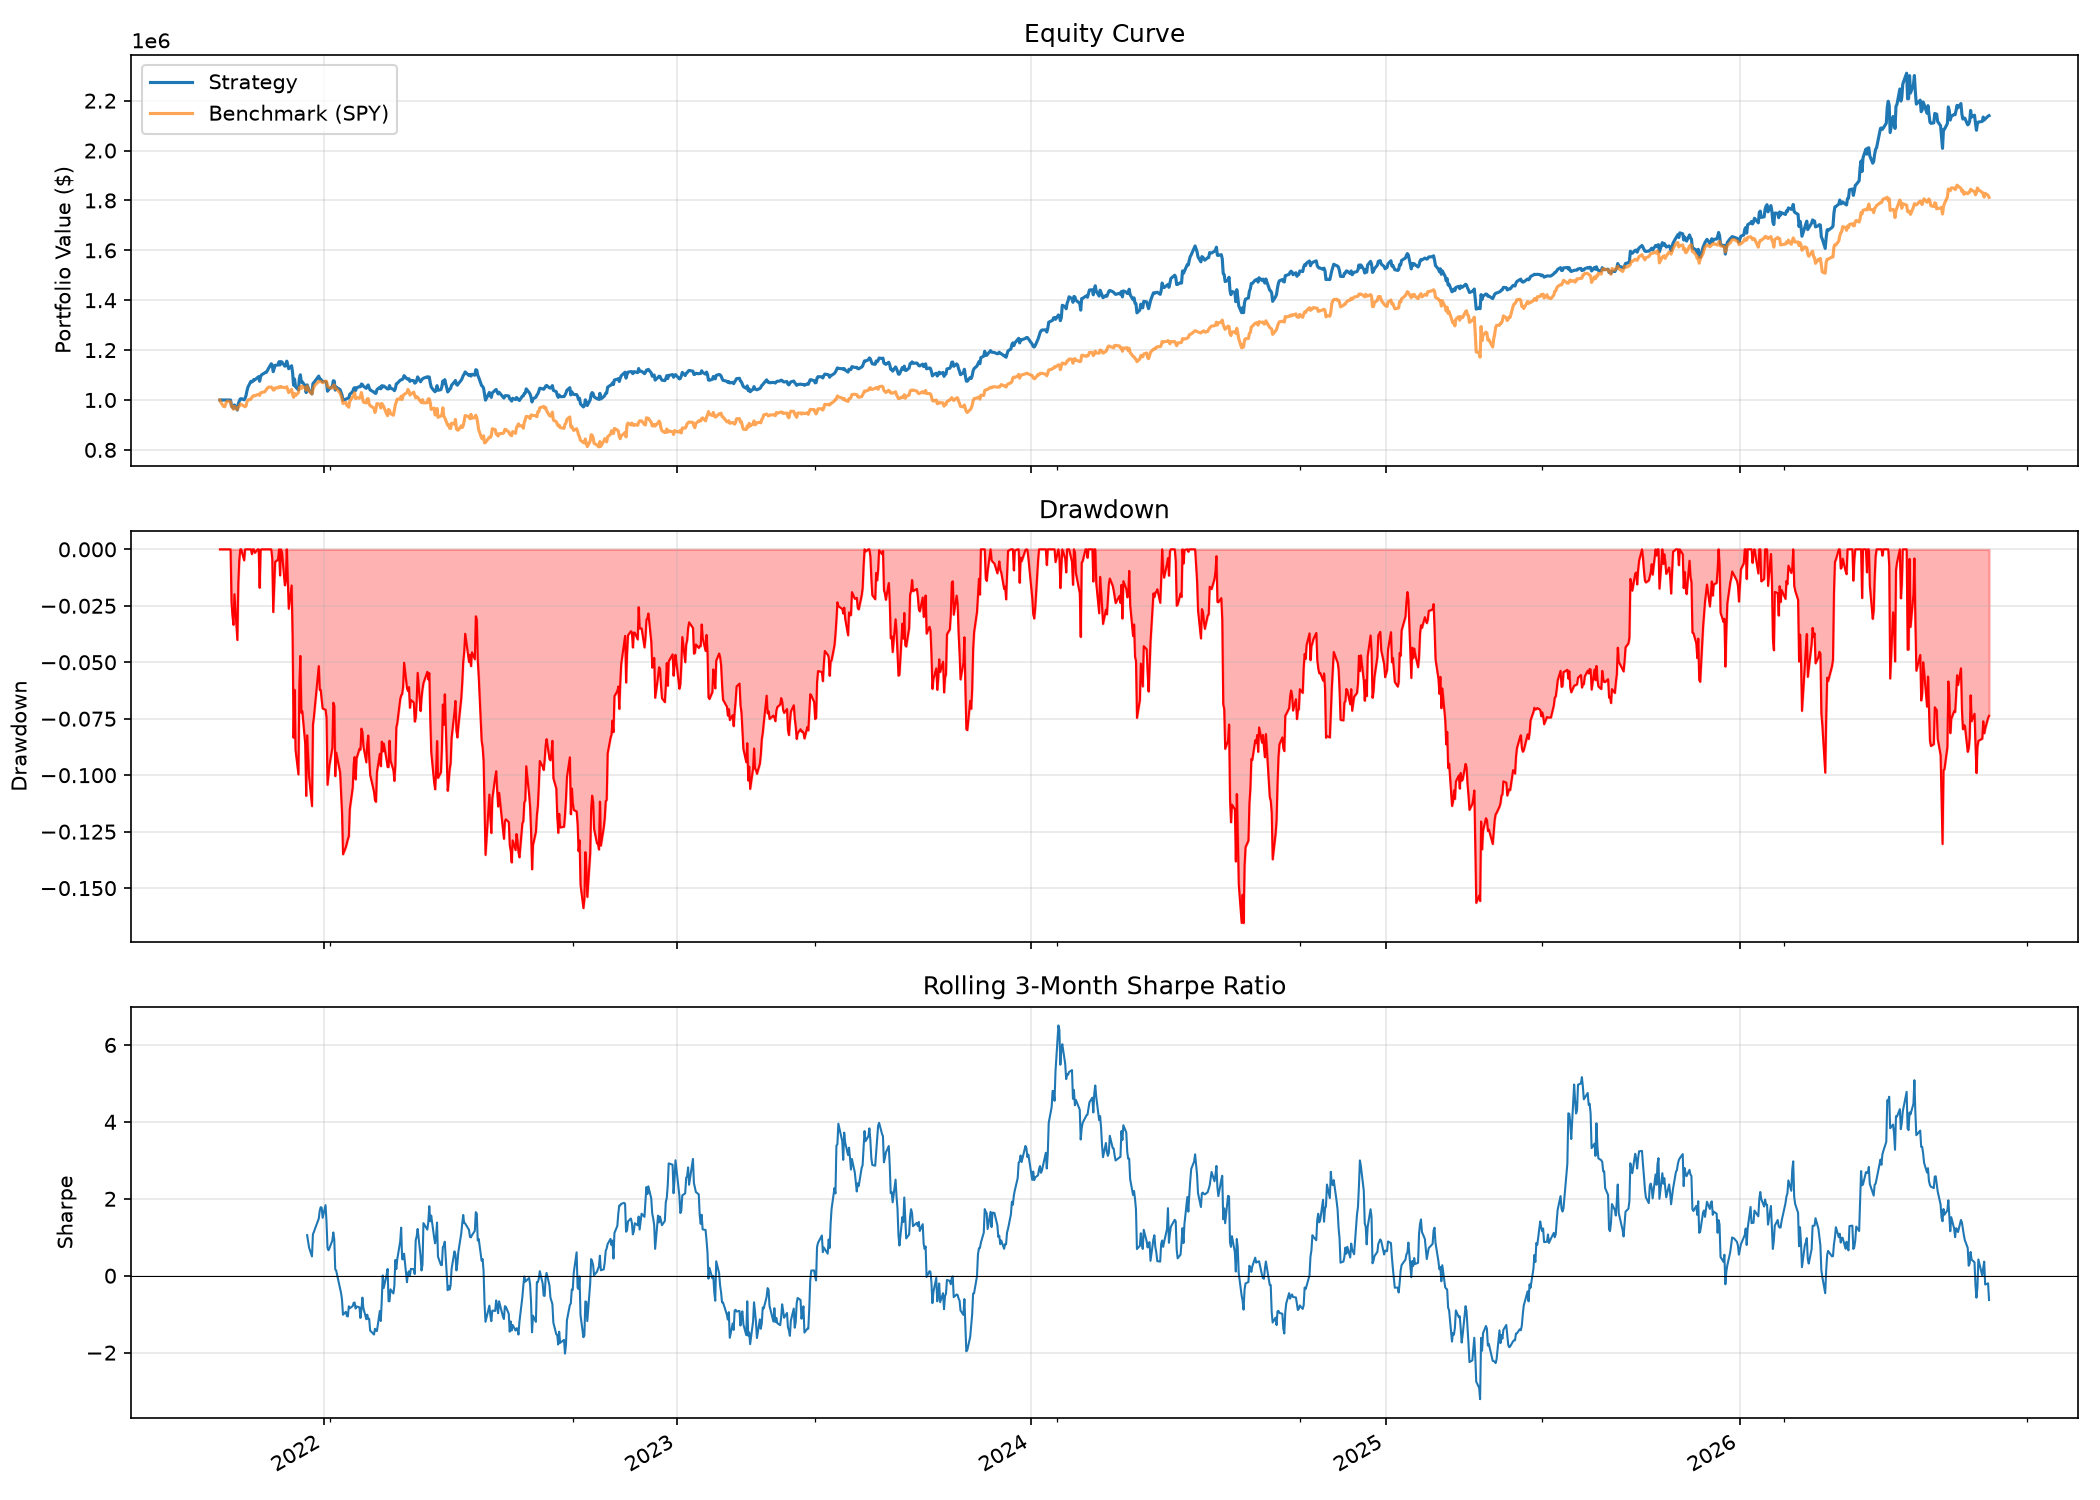
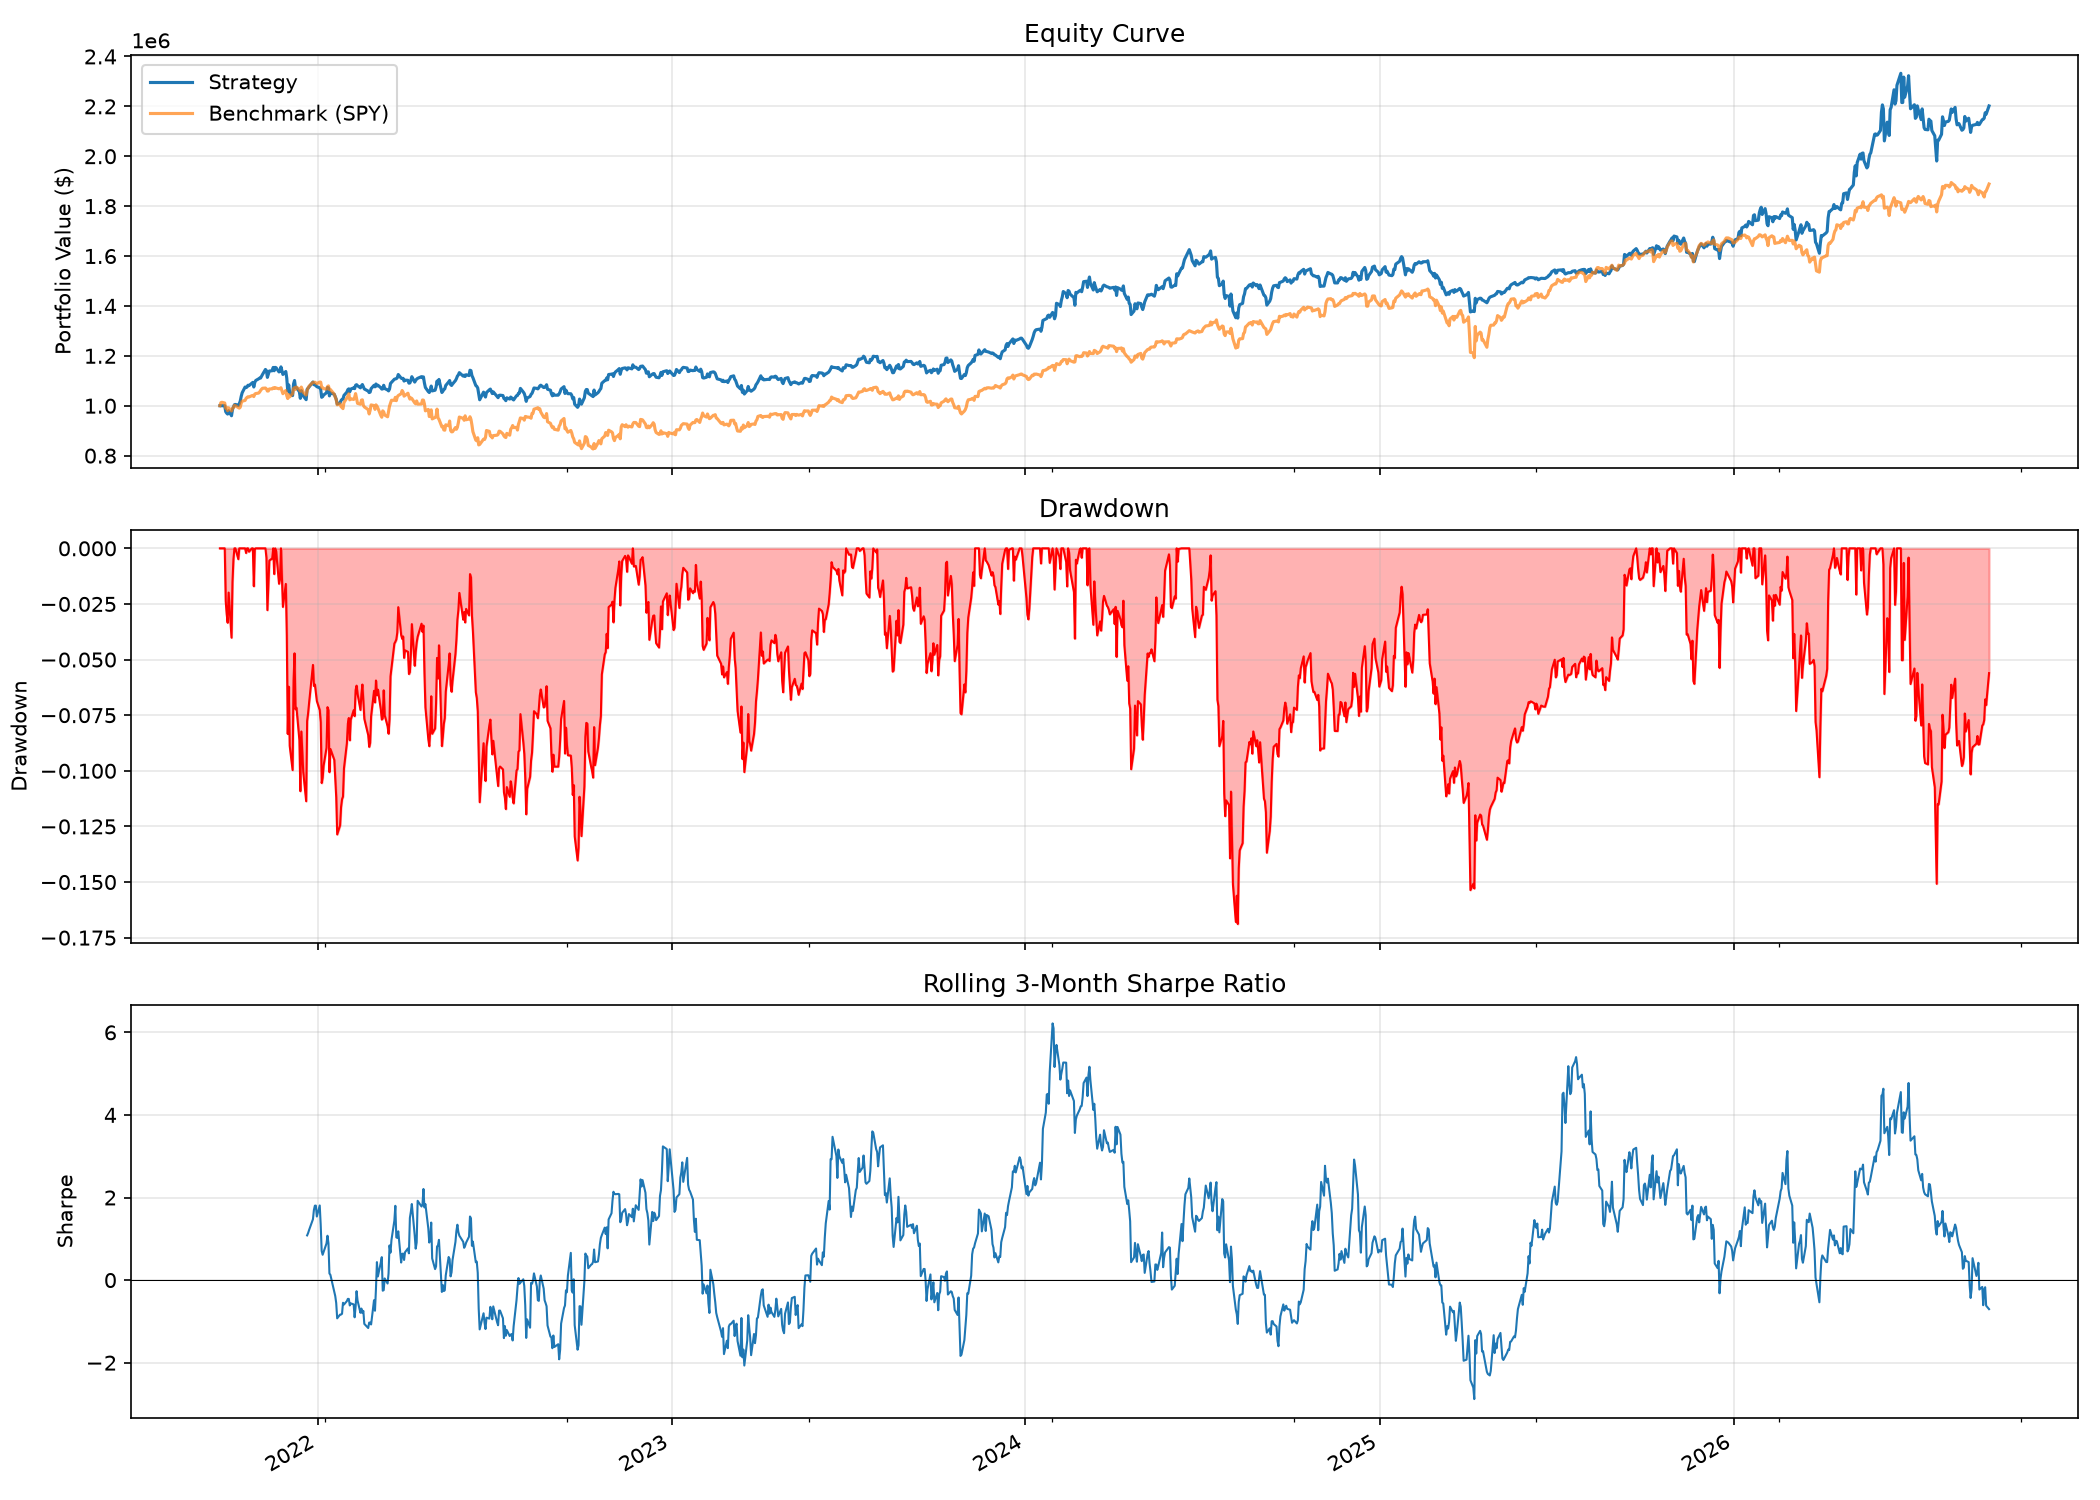
docs(readme): backtest tables and chart from the 2026-09-22 refresh run
Windows end 2026-09-22 on commit 4b81fe3 (run 35768997115). The same
windows on the previous turnover cap (run 35769424492) and on a third
variant tried the same day move the multi-factor numbers by a few points
in both directions, so the README says so and rests the change on the
exposure leak it closes rather than on these numbers. LGBM notes its
four frozen dry-run days; the trend blurb now describes the trailing
stop as measured from the peak since entry.

diff --git a/README.md b/README.md
@@ -37,42 +37,46 @@ Weekly decisions use paper-window alpha + attribution, execution health, model d
 
 ### Multi-Factor Strategy / 多因子策略 — **Candidate / 候选线**
 
-Recomputed 2026-09-16 by the `README Backtest Refresh` workflow (Actions run [35091142885](https://github.com/yingwang/trade/actions/runs/35091142885)) on commit `181ac3c`: one continuous simulation sliced into windows, next-session-open execution, the anchored rebalance calendar, the static sector table on both paths, targets computed from the actual drifted book, the volatility-scaled impact model, the turnover budget split between exits and entries, and Sharpe/Sortino against a 4% risk-free rate.
+Recomputed 2026-09-22 by the `README Backtest Refresh` workflow (Actions run [35768997115](https://github.com/yingwang/trade/actions/runs/35768997115)) on commit `4b81fe3`: one continuous simulation sliced into windows, next-session-open execution, the anchored rebalance calendar, the static sector table on both paths, targets computed from the actual drifted book, the volatility-scaled impact model, a turnover cap that may slow a rebalance but not sell the book below min(current, target) gross, and Sharpe/Sortino against a 4% risk-free rate.
 
-由 `README Backtest Refresh` workflow 于 2026-09-16 重算（Actions run 35091142885，commit `181ac3c`）：一次连续模拟切成三个窗口，次日开盘成交，锚定的再平衡日历，回测与 paper/模拟盘共用的静态行业表，目标组合按真实漂移持仓计算，波动率尺度的冲击成本，换手预算在退出腿与买入腿之间分配，Sharpe/Sortino 按 4% 无风险利率计算。
+由 `README Backtest Refresh` workflow 于 2026-09-22 重算（Actions run 35768997115，commit `4b81fe3`）：一次连续模拟切成三个窗口，次日开盘成交，锚定的再平衡日历，回测与 paper/模拟盘共用的静态行业表，目标组合按真实漂移持仓计算，波动率尺度的冲击成本，换手上限只放慢调仓、不把毛头寸卖到「现有」与「目标」两者较低者之下，Sharpe/Sortino 按 4% 无风险利率计算。
 
-#### 5-Year Backtest (2021-09-16 → 2026-09-16)
-
-| Metric / 指标 | Strategy / 策略 | SPY | Difference / 差异 |
-|---------------|:-----------:|:---:|:---------:|
-| **Total Return / 总收益** | **+113.7%** | +81.2% | **+32.5pp** |
-| **CAGR / 年化收益** | **+16.5%** | — | — |
-| **Sharpe Ratio** | **0.72** | — | — |
-| **Sortino Ratio** | **1.03** | — | — |
-| **Max Drawdown / 最大回撤** | -17.3% | — | — |
-| **Information Ratio** | **0.24** | — | — |
-
-#### 3-Year Backtest (2023-09-16 → 2026-09-16)
+#### 5-Year Backtest (2021-09-22 → 2026-09-22)
 
 | Metric / 指标 | Strategy / 策略 | SPY | Difference / 差异 |
 |---------------|:-----------:|:---:|:---------:|
-| **Total Return / 总收益** | **+88.1%** | +76.6% | **+11.5pp** |
-| **CAGR / 年化收益** | **+23.7%** | — | — |
-| **Sharpe Ratio** | **1.03** | — | — |
-| **Sortino Ratio** | **1.51** | — | — |
-| **Max Drawdown / 最大回撤** | -17.3% | — | — |
-| **Information Ratio** | **0.20** | — | — |
+| **Total Return / 总收益** | **+127.1%** | +89.0% | **+38.0pp** |
+| **CAGR / 年化收益** | **+17.9%** | — | — |
+| **Sharpe Ratio** | **0.78** | — | — |
+| **Sortino Ratio** | **1.11** | — | — |
+| **Max Drawdown / 最大回撤** | -16.9% | — | — |
+| **Information Ratio** | **0.27** | — | — |
 
-#### 1-Year Backtest (2025-09-16 → 2026-09-16)
+#### 3-Year Backtest (2023-09-22 → 2026-09-22)
 
 | Metric / 指标 | Strategy / 策略 | SPY | Difference / 差异 |
 |---------------|:-----------:|:---:|:---------:|
-| **Total Return / 总收益** | **+33.8%** | +16.0% | **+17.8pp** |
-| **CAGR / 年化收益** | **+34.2%** | — | — |
+| **Total Return / 总收益** | **+95.0%** | +86.5% | **+8.5pp** |
+| **CAGR / 年化收益** | **+25.1%** | — | — |
+| **Sharpe Ratio** | **1.07** | — | — |
+| **Sortino Ratio** | **1.56** | — | — |
+| **Max Drawdown / 最大回撤** | -16.9% | — | — |
+| **Information Ratio** | **0.15** | — | — |
+
+#### 1-Year Backtest (2025-09-22 → 2026-09-22)
+
+| Metric / 指标 | Strategy / 策略 | SPY | Difference / 差异 |
+|---------------|:-----------:|:---:|:---------:|
+| **Total Return / 总收益** | **+35.5%** | +17.3% | **+18.2pp** |
+| **CAGR / 年化收益** | **+35.7%** | — | — |
 | **Sharpe Ratio** | **1.26** | — | — |
-| **Sortino Ratio** | **1.89** | — | — |
-| **Max Drawdown / 最大回撤** | -13.0% | — | — |
-| **Information Ratio** | **1.01** | — | — |
+| **Sortino Ratio** | **1.88** | — | — |
+| **Max Drawdown / 最大回撤** | -15.1% | — | — |
+| **Information Ratio** | **0.95** | — | — |
+
+The same windows on the previous turnover cap (commit `cbe823a`, run [35769424492](https://github.com/yingwang/trade/actions/runs/35769424492)) gave +125.8% / +101.9% / +38.6%, and a third variant tried the same day landed at +129.8% / +99.2% / +34.1%. Differences of that size are mostly path: which names happen to trade on which rebalance day. The change is justified by what it stops, a capped rebalance quietly selling the book below its volatility target (the live 2026-09-23 preview would have gone from 77% to 68% invested against a 98% target), not by these numbers.
+
+同样的窗口，换手上限改动之前的代码（commit `cbe823a`，run 35769424492）是 +125.8% / +101.9% / +38.6%，同日试过的第三种写法是 +129.8% / +99.2% / +34.1%。这种量级的差别主要来自路径，也就是哪只股票恰好在哪个调仓日成交。这次改动的理由在于它堵住的问题：封顶的调仓会悄悄把仓位卖到波动率目标之下（2026-09-23 的实盘预演本会从 77% 仓位调到 68%，而目标是 98%），而不在这几个数字。
 
 #### Performance Chart / 净值曲线 (5-Year)
 
@@ -84,7 +88,7 @@ The July 2026 tables (5-year +193.6%, Sharpe 0.87, max drawdown -28.9%) were pro
 
 ### Trend Strategy / 趋势策略 — **Sandbox / 沙盒** (params frozen; third paper account)
 
-A third book, on its own Alpaca paper account, built to compete with the two above on raw return: concentrated leveraged trend-following (`quant/trend_strategy.py`, `config_trend.yaml`, `paper_trade_trend.py`). Seven names, chosen by blended 12-1 / 6-1 / 3-month momentum among stocks above their 200-day average, sized by inverse volatility, scaled to a 35% volatility target with up to 1.9x gross. Three market warning lights (SPY below its 200-day average, SPY 21-day volatility above 30%, fewer than 30% of the universe above their 50-day averages) cap gross at 0.6x with one light on and send the book to cash with two. Rebalance every ten sessions on the shared anchored calendar; every session checks trailing stops (20% off the 60-day high) and the regime cap, and acts the same day. The parameters were settled by a twelve-variant sweep on the five-year window: rebalancing every ten sessions rather than five and holding seven names rather than ten were the two changes that mattered, while tighter stops and a softer regime cut both hurt. Backtest tables come from the `Trend Backtest` workflow and `README Backtest Refresh` with the trend option; they carry the same survivorship caveat as the multi-factor table.
+A third book, on its own Alpaca paper account, built to compete with the two above on raw return: concentrated leveraged trend-following (`quant/trend_strategy.py`, `config_trend.yaml`, `paper_trade_trend.py`). Seven names, chosen by blended 12-1 / 6-1 / 3-month momentum among stocks above their 200-day average, sized by inverse volatility, scaled to a 35% volatility target with up to 1.9x gross. Three market warning lights (SPY below its 200-day average, SPY 21-day volatility above 30%, fewer than 30% of the universe above their 50-day averages) cap gross at 0.6x with one light on and send the book to cash with two. Rebalance every ten sessions on the shared anchored calendar; every session checks trailing stops (20% below the highest close since entry) and the regime cap, and acts the same day. The parameters were settled by a twelve-variant sweep on the five-year window: rebalancing every ten sessions rather than five and holding seven names rather than ten were the two changes that mattered, while tighter stops and a softer regime cut both hurt. Backtest tables come from the `Trend Backtest` workflow and `README Backtest Refresh` with the trend option; they carry the same survivorship caveat as the multi-factor table.
 
 第三个账户走的是另一条路：集中、带杠杆的趋势跟随。在 200 日线之上的股票里按 12-1、6-1、3 个月动量混合排序取前七只，按波动率倒数配权，把组合年化波动定在 35% 并允许最高 1.9 倍毛头寸；大盘破 200 日线、大盘 21 日波动率超过 30%、市场宽度弱于 30% 这三盏警示灯亮一盏毛头寸压到 0.6 倍、亮两盏清仓。每十个交易日按共享的锚定日历调仓，每个交易日检查 20% 移动止损与仓位上限并当天执行。参数由五年窗口上的十二组对照定下：十日调仓代替五日、七只代替十只是两处真正起作用的改动，收紧止损和放松减仓门槛都更差。回测表由 `Trend Backtest` workflow 生成，幸存者偏差的说明与多因子表相同。
 
@@ -127,15 +131,15 @@ Recomputed 2026-09-17 by the `README Backtest Refresh` workflow (Actions run [35
 
 ### LightGBM Strategy / LightGBM 策略 — **Research / 研究线** (paper orders)
 
-Same run, same windows. The ranking model does not beat the benchmark in any window of the honest backtest; the paper account's excess return since April 2026 is, by the dashboard's attribution, sector exposure rather than selection. Treat this strategy as research until that changes.
+Same run, same windows. The ranking model does not beat the benchmark in any window of the honest backtest; the paper account's excess return since April 2026 is, by the dashboard's attribution, mostly sector exposure (industry +18.7pp against selection +6.4pp through 2026-09-18). Treat this strategy as research until that changes. Its paper account trades on schedule; from 2026-09-18 to 09-22 the schedule ran dry-run and the account sat frozen, so that stretch of its paper record is not the model.
 
-同一次运行、同样的窗口。排序模型在诚实回测的任何窗口内都没有跑赢基准；模拟账户自 2026 年 4 月以来的超额收益，按看板归因，来自行业暴露而非选股。在这一点改变之前，这条策略应视为研究项目。
+同一次运行、同样的窗口。排序模型在诚实回测的任何窗口内都没有跑赢基准；模拟账户自 2026 年 4 月以来的超额收益，按看板归因，主要来自行业暴露（截至 2026-09-18 行业 +18.7pp，选股 +6.4pp）。在这一点改变之前，这条策略应视为研究项目。它的模拟账户照常定时交易；2026-09-18 到 09-22 定时任务只做 dry-run，账户原样冻结，这一段模拟盘记录反映的不是模型。
 
 | Window / 窗口 | Strategy / 策略 | SPY | Difference / 差异 | Sharpe | Max DD |
 |---|:---:|:---:|:---:|:---:|:---:|
-| 5-Year (2021-09-16 → 2026-09-16) | +63.6% | +81.2% | -17.6pp | 0.57 | -20.9% |
-| 3-Year (2023-09-16 → 2026-09-16) | +52.1% | +76.6% | -24.5pp | 1.16 | -8.4% |
-| 1-Year (2025-09-16 → 2026-09-16) | +12.2% | +16.0% | -3.9pp | 1.03 | -5.2% |
+| 5-Year (2021-09-22 → 2026-09-22) | +61.7% | +89.0% | -27.4pp | 0.53 | -17.0% |
+| 3-Year (2023-09-22 → 2026-09-22) | +58.9% | +86.5% | -27.6pp | 1.17 | -10.7% |
+| 1-Year (2025-09-22 → 2026-09-22) | +15.6% | +17.3% | -1.7pp | 1.22 | -6.2% |
 
 Even after rerunning, the default static stock universe must be labelled as
 survivorship-biased. A bias-reduced run requires both the optional
